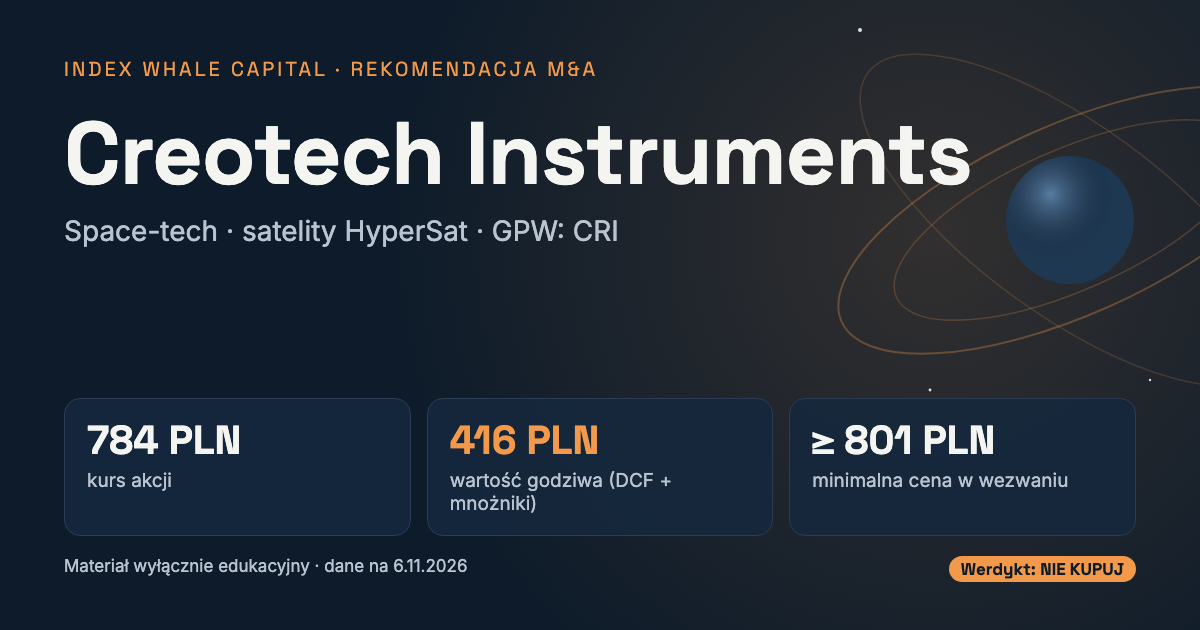
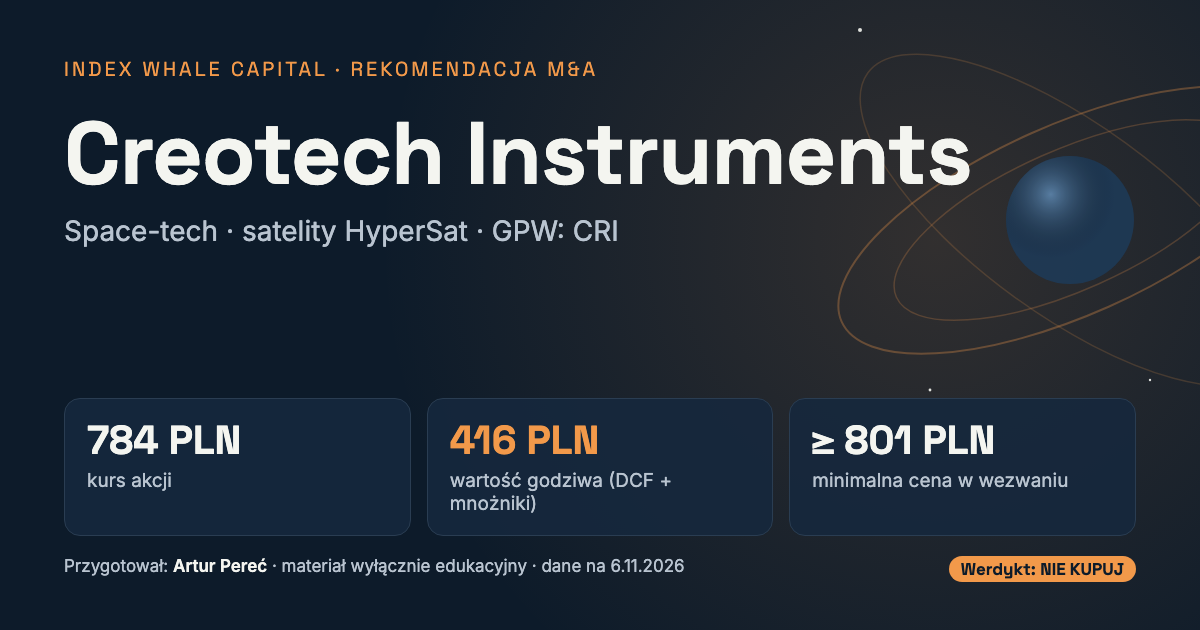
Dodaj autora: Artur Pereć (slajd tytułowy, grafika podglądu, README, model)

Changed region(s): [[0.0617, 0.8746, 0.5858, 0.9349]]

diff --git a/index.html b/index.html
@@ -4,21 +4,22 @@
 <meta charset="utf-8">
 <meta name="viewport" content="width=device-width, initial-scale=1">
 <title>Creotech Instruments – rekomendacja inwestycyjna</title>
-<meta name="description" content="Czy fundusz powinien przejąć kontrolę nad Creotech Instruments? DCF, mnożniki, struktura wezwania. Werdykt: nie przy cenie ≥801 PLN. Materiał edukacyjny.">
+<meta name="description" content="Czy fundusz powinien przejąć kontrolę nad Creotech Instruments? DCF, mnożniki, struktura wezwania. Werdykt: nie przy cenie ≥801 PLN. Przygotował: Artur Pereć. Materiał edukacyjny.">
+<meta name="author" content="Artur Pereć">
 <meta property="og:type" content="website">
 <meta property="og:site_name" content="INDEX Whale Capital – rekomendacje M&amp;A">
 <meta property="og:title" content="Creotech Instruments – rekomendacja inwestycyjna">
-<meta property="og:description" content="Czy fundusz powinien przejąć kontrolę nad Creotech Instruments? DCF, mnożniki, struktura wezwania. Werdykt: nie przy cenie ≥801 PLN. Materiał edukacyjny.">
+<meta property="og:description" content="Czy fundusz powinien przejąć kontrolę nad Creotech Instruments? DCF, mnożniki, struktura wezwania. Werdykt: nie przy cenie ≥801 PLN. Przygotował: Artur Pereć. Materiał edukacyjny.">
 <meta property="og:url" content="https://arturperec.github.io/creotech-rekomendacja-ma/">
-<meta property="og:image" content="https://arturperec.github.io/creotech-rekomendacja-ma/og.png">
-<meta property="og:image:secure_url" content="https://arturperec.github.io/creotech-rekomendacja-ma/og.png">
+<meta property="og:image" content="https://arturperec.github.io/creotech-rekomendacja-ma/og.png?v=2">
+<meta property="og:image:secure_url" content="https://arturperec.github.io/creotech-rekomendacja-ma/og.png?v=2">
 <meta property="og:image:type" content="image/png">
 <meta property="og:image:width" content="1200">
 <meta property="og:image:height" content="630">
 <meta property="og:image:alt" content="Creotech Instruments – rekomendacja inwestycyjna">
 <meta property="og:locale" content="pl_PL">
 <meta name="twitter:card" content="summary_large_image">
-<meta name="twitter:image" content="https://arturperec.github.io/creotech-rekomendacja-ma/og.png">
+<meta name="twitter:image" content="https://arturperec.github.io/creotech-rekomendacja-ma/og.png?v=2">
 <meta name="theme-color" content="#0b0f14">
 <link rel="preconnect" href="https://fonts.googleapis.com">
 <link rel="stylesheet" href="https://fonts.googleapis.com/css2?family=Space+Grotesk:wght@300..700&display=swap"><link rel="stylesheet" href="https://fonts.googleapis.com/css2?family=Inter:wght@400;600&display=swap">
@@ -61,6 +62,7 @@
 <p style="font-size:28px;color:#B9C4D0">GPW: CRI</p>
 <p style="font-size:28px;color:#B9C4D0">Sektor: space-tech / hardware</p>
 <p style="font-size:28px;color:#B9C4D0">21.11.2026</p>
+<p style="font-size:28px;color:#F4F5F0">Przygotował: <b>Artur Pereć</b></p>
 </div>
 <p style="font-size:24px;line-height:1.4;color:#9AA8B8;border-top:1px solid #2A3D52;padding:20px 0 0 0">Zastrzeżenie: materiał wyłącznie edukacyjny, przygotowany w ramach projektu studenckiego. Nie stanowi rekomendacji inwestycyjnej w rozumieniu art. 3 ust. 1 pkt 34–35 rozporządzenia MAR (UE) nr 596/2014, porady inwestycyjnej w rozumieniu art. 76 ustawy o obrocie instrumentami finansowymi ani oferty nabycia lub zbycia instrumentów finansowych. Dane na 6.11.2026.</p>
 <aside>Prezentacja doradcy M&amp;A dla komitetu inwestycyjnego INDEX Whale Capital Management. Spółka: Creotech Instruments S.A., notowana na GPW (ticker CRI).</aside>

diff --git a/README.md b/README.md
@@ -2,6 +2,8 @@
 
 # Creotech Instruments (GPW: CRI) – rekomendacja M&A
 
+**Przygotował: Artur Pereć**
+
 Projekt dla funduszu **INDEX Whale Capital Management** (komitet inwestycyjny, 21.11.2026).
 
 - **Prezentacja:** [index.html](https://arturperec.github.io/creotech-rekomendacja-ma/) – 10 slajdów + tytułowy; strzałki ←/→, `N` – notatki prelegenta (źródła), `F` – pełny ekran, druk do PDF z przeglądarki.
